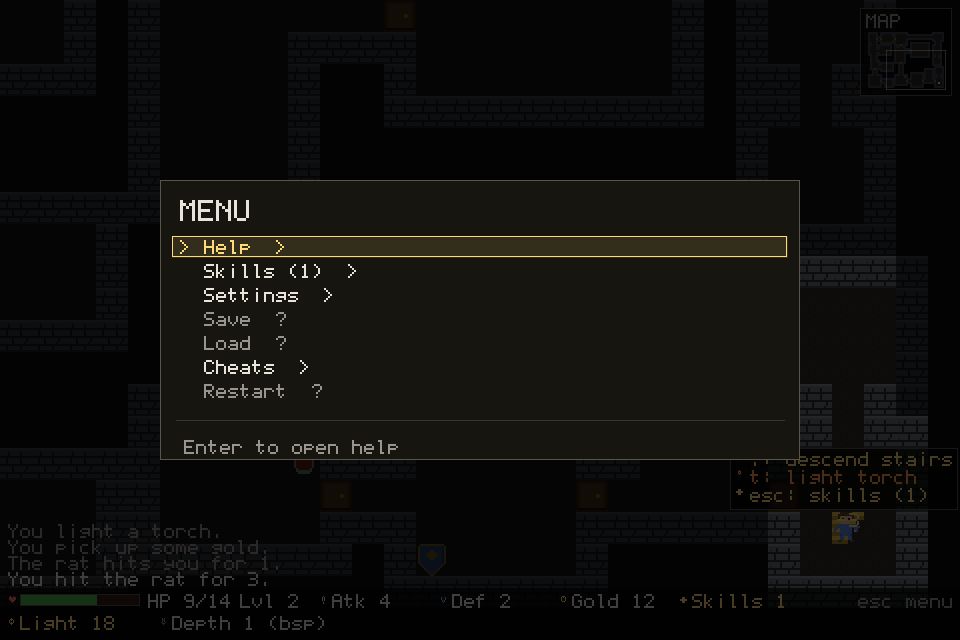
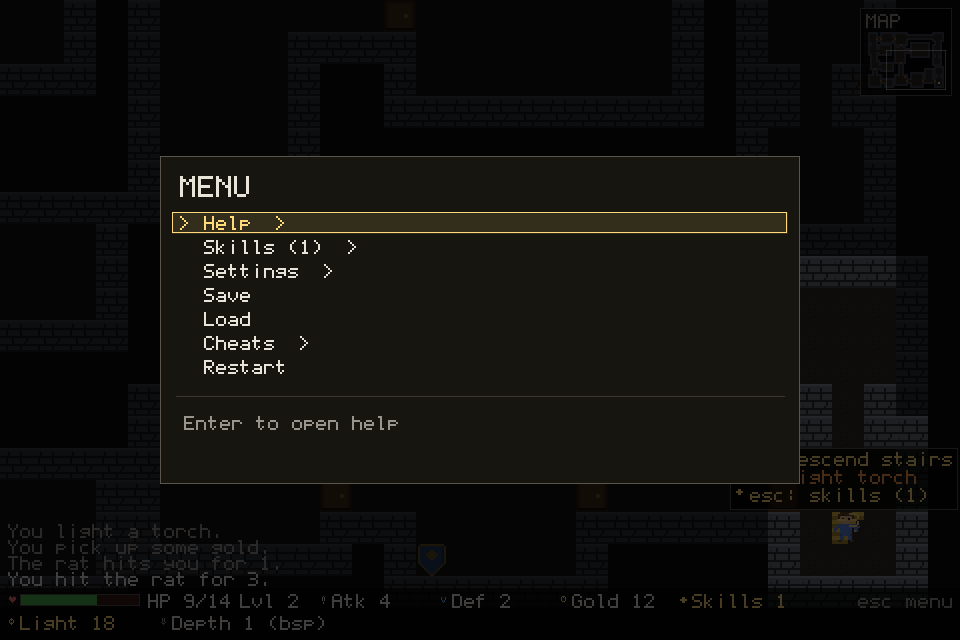
Simplify menu entry styling and detail height

diff --git a/src/ui/screens.ts b/src/ui/screens.ts
@@ -6,6 +6,7 @@ import type { MenuNav } from "./menu.ts";
 import type { ScalingMode } from "./scaling.ts";
 
 const MENU_WIDTH = 640;
+const MENU_DETAIL_LINES = 3;
 
 export interface GameOverStats {
   depth: number;
@@ -104,8 +105,10 @@ export function drawMenu(
   const labels = menu.labels();
   const showHelp = menu.depth() === 1 && labels[0] === "Help";
   const detail = menuDetail(menu, scalingMode);
-  const detailLines = showHelp ? [] : detail.flatMap((line) => wrapPixelText(line, MENU_WIDTH - 48, 2));
-  const detailH = showHelp ? HELP_LINES.length * 24 : Math.max(1, detailLines.length) * 24;
+  const detailLines = showHelp
+    ? []
+    : detail.flatMap((line) => wrapPixelText(line, MENU_WIDTH - 48, 2)).slice(0, MENU_DETAIL_LINES);
+  const detailH = showHelp ? HELP_LINES.length * 24 : MENU_DETAIL_LINES * 24;
   const h = 64 + entries.length * 24 + 16 + detailH + 8;
   const x = (LOGICAL_W - MENU_WIDTH) / 2;
   const y = (LOGICAL_H - h) / 2;
@@ -130,13 +133,13 @@ export function drawMenu(
       bctx.strokeRect(x + 12.5, rowY - 3.5, MENU_WIDTH - 25, 21);
     }
 
-    const suffix = it.submenu ? "  >" : it.action ? "  *" : "";
+    const suffix = it.submenu ? "  >" : "";
     drawPixelText(
       bctx,
       `${i === menu.index ? ">" : " "} ${it.label}${suffix}`,
       x + 20,
       rowY,
-      i === menu.index ? "#ffd97a" : it.submenu ? "#e8e4da" : "#9a958c",
+      i === menu.index ? "#ffd97a" : "#e8e4da",
       2,
     );
   });

diff --git a/src/ui/pixel-font.ts b/src/ui/pixel-font.ts
@@ -10,6 +10,7 @@ export const FONT: Record<string, string[]> = {
   "/": ["    #", "    #", "   # ", "  #  ", " #   ", "#    ", "#    "],
   ":": [".....", "  #  ", "  #  ", ".....", "  #  ", "  #  ", "....."],
   ">": ["#    ", " #   ", "  #  ", "   # ", "  #  ", " #   ", "#    "],
+  "*": [".#.#.", "#####", ".#.#.", "#####", ".#.#.", ".....", "....."],
   "+": [".....", "  #  ", "  #  ", "#####", "  #  ", "  #  ", "....."],
   "?": [" ### ", "#   #", "    #", "   # ", "  #  ", "     ", "  #  "],
   "0": [" ### ", "#   #", "#  ##", "# # #", "##  #", "#   #", " ### "],

diff --git a/tests/ui/pixel-font.test.ts b/tests/ui/pixel-font.test.ts
@@ -3,7 +3,7 @@ import { FONT, pixelTextWidth, wrapPixelText } from "../../src/ui/pixel-font.ts"
 
 describe("pixel font", () => {
   it("includes lowercase and UI punctuation glyphs", () => {
-    for (const ch of "abcdefghijklmnopqrstuvwxyz+:/(),.-") {
+    for (const ch of "abcdefghijklmnopqrstuvwxyz+:/(),.-*") {
       expect(FONT[ch]).toBeDefined();
     }
   });
